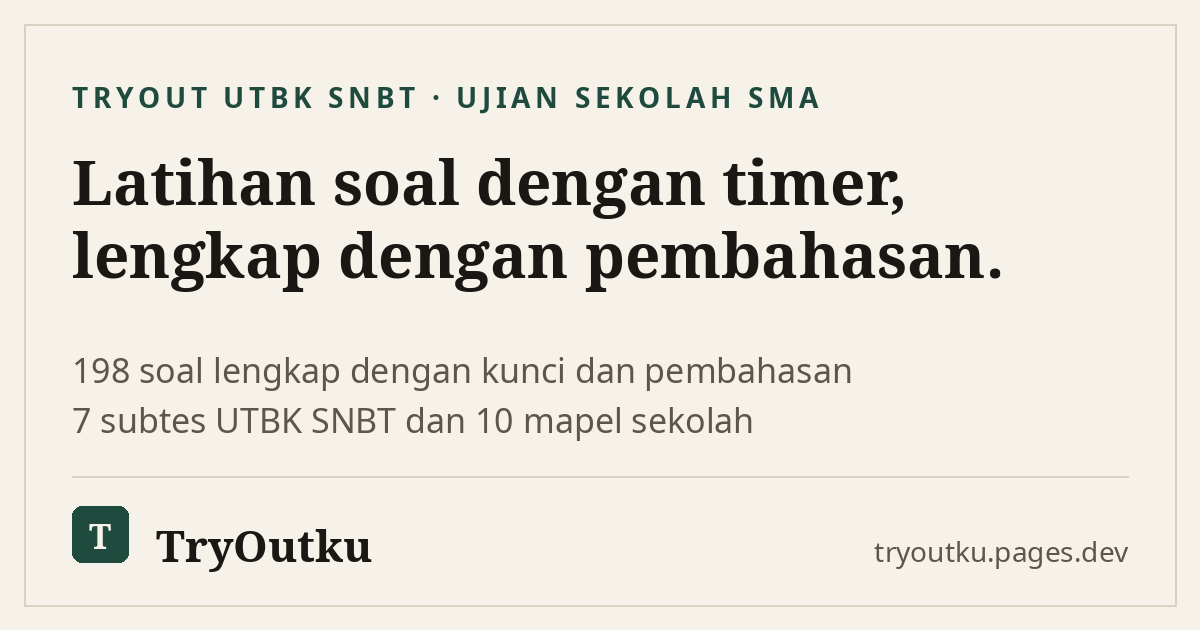
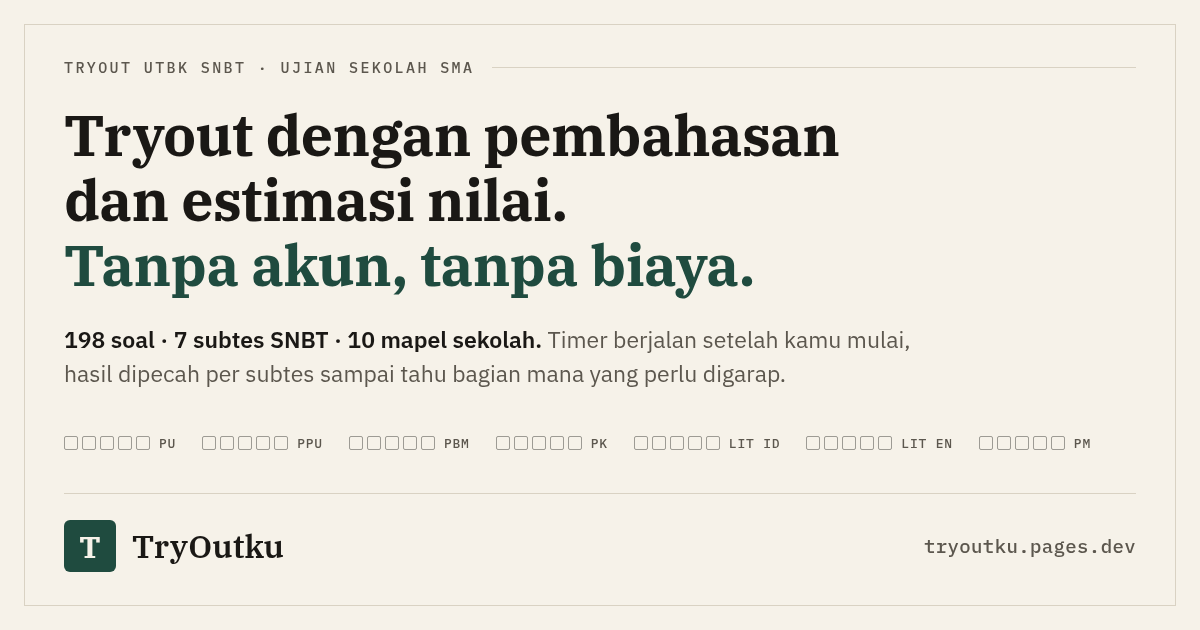
landing pass 4: demo 3 soal lintas subtes + aria-live, jalur utama jadi tombol, langkah bernomor di 03, label stat ringkas, OG image janji baru

diff --git a/src/app/page.tsx b/src/app/page.tsx
@@ -4,6 +4,7 @@ import { BANK, BANK_BY_SUBTEST } from "@/lib/bank";
 import { LETTERS } from "@/lib/scoring";
 import { PAKETS, paketSoal } from "@/lib/pakets";
 import { SUBTESTS, SUBTEST_BY_ID } from "@/lib/subtests";
+import type { Question } from "@/lib/types";
 import HomeState from "@/components/HomeState";
 import HeroTry from "@/components/HeroTry";
 import ScoreRing from "@/components/ScoreRing";
@@ -55,15 +56,20 @@ export default function Home() {
   const totalSoal = BANK.length;
   const paketSnbt = PAKETS.filter((item) => item.track === "snbt");
   const paketUtama = paketSnbt[0] ?? PAKETS[0];
-  // Soal pendek dengan pembahasan pendek: pratinjau harus selesai di layar
-  // tanpa menggulir, termasuk saat pembahasan terbuka.
-  const contohSoal =
-    BANK_BY_SUBTEST["pu"]?.find(
-      (item) =>
-        !item.passage &&
-        item.question.length <= 120 &&
-        item.explanation.length <= 160
-    ) ?? BANK[0];
+  // Tiga soal pendek lintas subtes untuk pratinjau hero: pilihan pertama tiap
+  // subtes yang soal dan pembahasannya muat satu kartu tanpa menggulir.
+  const contohSoal = (["pu", "pk", "ppu"] as const)
+    .map((id) =>
+      BANK_BY_SUBTEST[id]?.find(
+        (item) =>
+          !item.passage &&
+          item.options.length === 4 &&
+          item.question.length <= 130 &&
+          item.explanation.length <= 190,
+      ),
+    )
+    .filter((item): item is Question => Boolean(item));
+  const contohLatihan = contohSoal[0] ?? BANK[0];
   const subtesUtama = Object.keys(paketUtama.blueprint);
   const snbt = SUBTESTS.filter((item) => item.track === "snbt");
   const sekolah = SUBTESTS.filter((item) => item.track === "sekolah");
@@ -74,8 +80,8 @@ export default function Home() {
   // Statistik disusun sebagai cakupan, bukan pamer jumlah: 198 soal jujur tapi
   // tipis, sedangkan "7/7 subtes SNBT" adalah janji yang bisa dibuktikan.
   const statistik = [
-    { nilai: `${snbt.length}/${snbt.length}`, label: "subtes SNBT tercakup" },
-    { nilai: String(sekolah.length), label: "mapel ujian sekolah" },
+    { nilai: `${snbt.length}/${snbt.length}`, label: "subtes SNBT" },
+    { nilai: String(sekolah.length), label: "mapel sekolah" },
     { nilai: String(PAKETS.length), label: "paket berwaktu" },
   ];
 
@@ -140,7 +146,7 @@ export default function Home() {
 
           <div className="min-w-0">
             <HeroTry
-              question={contohSoal}
+              questions={contohSoal}
               timer={formatTimer(paketUtama.durationMin)}
               paketName={paketUtama.name}
               paketHref={`/tryout/${paketUtama.id}`}
@@ -159,23 +165,37 @@ export default function Home() {
             Tiga jalur, sesuai keadaanmu
           </h2>
           <ul className="mt-5">
-            {jalurMulai.map((jalur) => (
+            {jalurMulai.map((jalur, i) => (
               <li key={jalur.label} className="border-b border-line last:border-b-0">
-                <Link
-                  href={jalur.href}
-                  className="group flex min-h-14 flex-wrap items-baseline justify-between gap-x-6 gap-y-1 py-3 sm:flex-nowrap"
-                >
-                  <span className="font-serif text-base font-semibold sm:text-lg">
-                    {jalur.label}
-                  </span>
-                  <span className="flex items-center gap-1.5 text-sm text-accent">
-                    {jalur.aksi}
-                    <IconArrowRight
-                      size={14}
-                      className="transition-transform group-hover:translate-x-0.5"
-                    />
-                  </span>
-                </Link>
+                {/* Jalur pertama (paling umum) diberi tombol utama; dua
+                    jalur lain tetap baris teks — hierarki lewat bobot aksi,
+                    bukan lewat warna atau badge baru. */}
+                {i === 0 ? (
+                  <div className="flex flex-wrap items-center justify-between gap-x-6 gap-y-3 py-4">
+                    <span className="font-serif text-base font-semibold sm:text-lg">
+                      {jalur.label}
+                    </span>
+                    <Link href={jalur.href} className="btn-primary h-11 w-full px-5 sm:w-auto">
+                      {jalur.aksi}
+                    </Link>
+                  </div>
+                ) : (
+                  <Link
+                    href={jalur.href}
+                    className="group flex min-h-14 flex-wrap items-baseline justify-between gap-x-6 gap-y-1 py-3 sm:flex-nowrap"
+                  >
+                    <span className="font-serif text-base font-semibold sm:text-lg">
+                      {jalur.label}
+                    </span>
+                    <span className="flex items-center gap-1.5 text-sm text-accent">
+                      {jalur.aksi}
+                      <IconArrowRight
+                        size={14}
+                        className="transition-transform group-hover:translate-x-0.5"
+                      />
+                    </span>
+                  </Link>
+                )}
               </li>
             ))}
           </ul>
@@ -253,8 +273,8 @@ export default function Home() {
                 aria-hidden="true"
                 className="mt-5 grid grid-cols-2 gap-1.5 border-t border-line pt-5"
               >
-                {contohSoal.options.slice(0, 4).map((option, index) => {
-                  const correct = index === contohSoal.answer;
+                {contohLatihan.options.slice(0, 4).map((option, index) => {
+                  const correct = index === contohLatihan.answer;
                   return (
                     <div
                       key={index}
@@ -293,7 +313,7 @@ export default function Home() {
           <h2 className="mt-2 font-serif text-[clamp(23px,3.2vw,32px)] font-semibold tracking-tight">
             Selesai sesi, kamu dapat kertas skor — bukan sekadar angka benar
           </h2>
-          <div className="mt-6 grid gap-8 md:grid-cols-[minmax(0,420px)_minmax(0,1fr)] md:items-center">
+          <div className="mt-6 grid gap-8 md:grid-cols-[minmax(0,420px)_minmax(0,1fr)] md:items-start">
             <div
               className="card p-5"
               role="img"
@@ -337,17 +357,25 @@ export default function Home() {
                 })}
               </div>
             </div>
-            <div className="min-w-0 space-y-4 text-sm leading-relaxed text-muted">
-              <p>
-                Kertas skor memecah hasil per subtes dan memberi estimasi nilai skala 200 sampai
-                800. Angka contoh di kiri memakai rumus yang sama dengan hasil tryoutmu: persen
-                benar dikali 6, ditambah 200.
+            <div className="min-w-0 space-y-5 text-sm leading-relaxed text-muted">
+              <p className="text-ink">
+                Satu sesi berakhir dengan angka yang bisa ditindaklanjuti — bukan sekadar
+                benar atau salah.
               </p>
-              <p>
-                Dari situ alurnya melingkar: subtes terlemah ditunjukkan, latihan untuk subtes
-                itu tinggal satu ketukan, dan sesi yang berhenti di tengah bisa dilanjutkan kapan
-                pun.
-              </p>
+              <ol className="space-y-3.5">
+                {[
+                  "Hasil dipecah per subtes dengan estimasi skala 200–800 — rumus yang sama dengan angka contoh di kiri: persen benar dikali 6, ditambah 200.",
+                  "Subtes terlemah ditunjuk beserta alasannya, jadi kamu tahu persis harus menggarap apa.",
+                  "Latihan untuk bagian itu tinggal satu ketukan, dan sesi yang berhenti di tengah bisa dilanjutkan kapan pun.",
+                ].map((langkah, i) => (
+                  <li key={i} className="flex gap-3">
+                    <span className="num mt-0.5 shrink-0 font-mono text-[11px] text-muted">
+                      {i + 1}
+                    </span>
+                    <span>{langkah}</span>
+                  </li>
+                ))}
+              </ol>
             </div>
           </div>
         </Reveal>

diff --git a/src/components/HeroTry.tsx b/src/components/HeroTry.tsx
@@ -8,7 +8,8 @@ import { SUBTEST_BY_ID } from "@/lib/subtests";
 import { IconArrowRight, IconCheck, IconClock } from "./icons";
 
 interface Props {
-  question: Question;
+  /** tiga soal lintas subtes; setelah terjawab pengunjung bisa lanjut */
+  questions: Question[];
   /** waktu paket yang ditampilkan di kepala kartu */
   timer: string;
   paketName: string;
@@ -18,13 +19,26 @@ interface Props {
 /**
  * Pratinjau soal yang bisa dikerjakan, bukan dipamerkan. Kunci dan pembahasan
  * baru terbuka setelah pengunjung memilih — momen "saya bisa nggak ya?" itulah
- * yang menjual produk, bukan jawaban yang disuapkan.
+ * yang menjual produk, bukan jawaban yang disuapkan. Umpan balik memakai
+ * aria-live supaya pengguna pembaca layar ikut mendengar hasilnya, dan soal
+ * berikutnya bisa dilanjutkan tanpa muat ulang.
  */
-export default function HeroTry({ question, timer, paketName, paketHref }: Props) {
+export default function HeroTry({ questions, timer, paketName, paketHref }: Props) {
+  const [index, setIndex] = useState(0);
   const [picked, setPicked] = useState<number | null>(null);
-  const subtes = SUBTEST_BY_ID[question.subtest];
+  const question = questions[index];
+  const subtes = question ? SUBTEST_BY_ID[question.subtest] : undefined;
   const answered = picked !== null;
-  const benar = picked === question.answer;
+  const benar = question !== undefined && picked === question.answer;
+  const adaLanjutan = questions.length > 1;
+  const jawab = question?.options ?? [];
+
+  function lanjut() {
+    setIndex((i) => (i + 1) % questions.length);
+    setPicked(null);
+  }
+
+  if (!question) return null;
 
   return (
     <div id="coba" className="card flex h-full flex-col overflow-hidden">
@@ -41,9 +55,9 @@ export default function HeroTry({ question, timer, paketName, paketHref }: Props
       <div className="p-4 lg:p-5">
         <p className="text-sm font-semibold leading-relaxed lg:text-[15px]">{question.question}</p>
         <ul className="mt-3 space-y-1.5" role="group" aria-label="Pilih satu jawaban">
-          {question.options.slice(0, 4).map((option, index) => {
-            const isPicked = picked === index;
-            const isCorrectKey = answered && index === question.answer;
+          {jawab.slice(0, 4).map((option, indexOpsi) => {
+            const isPicked = picked === indexOpsi;
+            const isCorrectKey = answered && indexOpsi === question.answer;
             const tone = isCorrectKey
               ? "border-accent bg-accent/10"
               : isPicked
@@ -52,10 +66,10 @@ export default function HeroTry({ question, timer, paketName, paketHref }: Props
                   ? "border-line text-muted"
                   : "border-ink/25 hover:border-ink/50 dark:border-ink/40";
             return (
-              <li key={index}>
+              <li key={indexOpsi}>
                 <button
                   type="button"
-                  onClick={() => setPicked(index)}
+                  onClick={() => setPicked(indexOpsi)}
                   aria-pressed={isPicked}
                   disabled={answered}
                   className={`flex w-full items-center gap-2.5 rounded-md border px-3 py-1.5 text-left transition-colors lg:py-2 disabled:cursor-default ${tone}`}
@@ -70,7 +84,7 @@ export default function HeroTry({ question, timer, paketName, paketHref }: Props
                           : "border border-line"
                     }`}
                   >
-                    {LETTERS[index]}
+                    {LETTERS[indexOpsi]}
                   </span>
                   <span className="min-w-0 flex-1 text-[13px] leading-snug lg:text-sm">
                     {option}
@@ -94,13 +108,17 @@ export default function HeroTry({ question, timer, paketName, paketHref }: Props
 
         {!answered ? (
           <p className="mt-3 text-[11px] text-muted">
-            Klik satu pilihan — dinilai detik itu juga, seperti di tryout sungguhan.
+            Soal {index + 1} dari {questions.length} — klik satu pilihan, dinilai detik itu
+            juga, seperti di tryout sungguhan.
           </p>
         ) : null}
       </div>
 
       {answered ? (
-        <div className="animate-rise border-t border-line bg-raised/60 px-4 py-3 lg:px-5">
+        <div
+          aria-live="polite"
+          className="animate-rise border-t border-line bg-raised/60 px-4 py-3 lg:px-5"
+        >
           <p className="text-xs font-semibold">
             {benar ? "Tepat." : "Belum tepat."}{" "}
             <span className="font-normal text-muted">Kunci: {LETTERS[question.answer]}.</span>
@@ -110,14 +128,25 @@ export default function HeroTry({ question, timer, paketName, paketHref }: Props
         </div>
       ) : null}
 
-      <div className="mt-auto border-t border-line px-4 py-3">
+      <div className="mt-auto flex flex-wrap items-center gap-x-4 gap-y-1 border-t border-line px-4 py-2.5">
+        {answered && adaLanjutan ? (
+          <button
+            type="button"
+            onClick={lanjut}
+            className="inline-flex min-h-11 items-center gap-1.5 text-sm font-medium text-ink transition-colors hover:text-accent"
+          >
+            Soal berikutnya
+            <IconArrowRight size={14} />
+          </button>
+        ) : null}
         <Link
           href={paketHref}
-          className="inline-flex min-h-11 items-center gap-1.5 text-sm font-medium text-accent"
+          className={`inline-flex min-h-11 items-center gap-1.5 text-sm font-medium text-accent ${
+            answered && adaLanjutan ? "sm:ml-auto" : ""
+          }`}
         >
           Kerjakan {paketName} penuh <IconArrowRight size={14} />
         </Link>
-        <p className="sr-only">Contoh soal dari paket {paketName}.</p>
       </div>
     </div>
   );

diff --git a/DESIGN.md b/DESIGN.md
@@ -57,7 +57,7 @@ Catatan kontras, diukur bukan dikira. Teks normal lolos AA di keempat tema, tere
 
 Halaman tidak boleh hanya bergantung pada teks. Aturannya: elemen visual harus berasal dari data atau dari produknya sendiri, bukan ilustrasi dekoratif.
 
-- **Pratinjau soal di beranda** menampilkan soal sungguhan dari bank soal beserta opsi A sampai D dan jawaban benar yang ditandai. Ini memperlihatkan bentuk produk, bukan menjelaskan produk.
+- **Pratinjau soal di beranda** menampilkan tiga soal sungguhan lintas subtes (PU, PK, PPU) beserta opsi A sampai D. Kunci dan pembahasan baru terbuka setelah pengunjung memilih — yang menjual produk adalah momen memilih, bukan jawaban yang disuapkan. Setelah terjawab, pengunjung bisa melanjut ke soal berikutnya tanpa muat ulang, dan umpan baliknya diumumkan lewat `aria-live` untuk pembaca layar.
 - **Strip angka di kaki pratinjau** memuat jumlah soal, durasi, dan ada tidaknya pembahasan. Angka memakai serif, label memakai sans, dan nilai non-angka tidak ikut diserifkan.
 - **Titik progres** dipakai di mode latihan menggantikan kalimat "soal 3 dari 12". Di atas 24 soal titik terlalu rapat, jadi diganti bilah proporsional.
 - **Cincin skor** di halaman hasil menggantikan angka besar. Nilai 0 ditampilkan sebagai cincin kosong, bukan busur palsu, karena angka yang dibulatkan ke atas akan berbohong.
